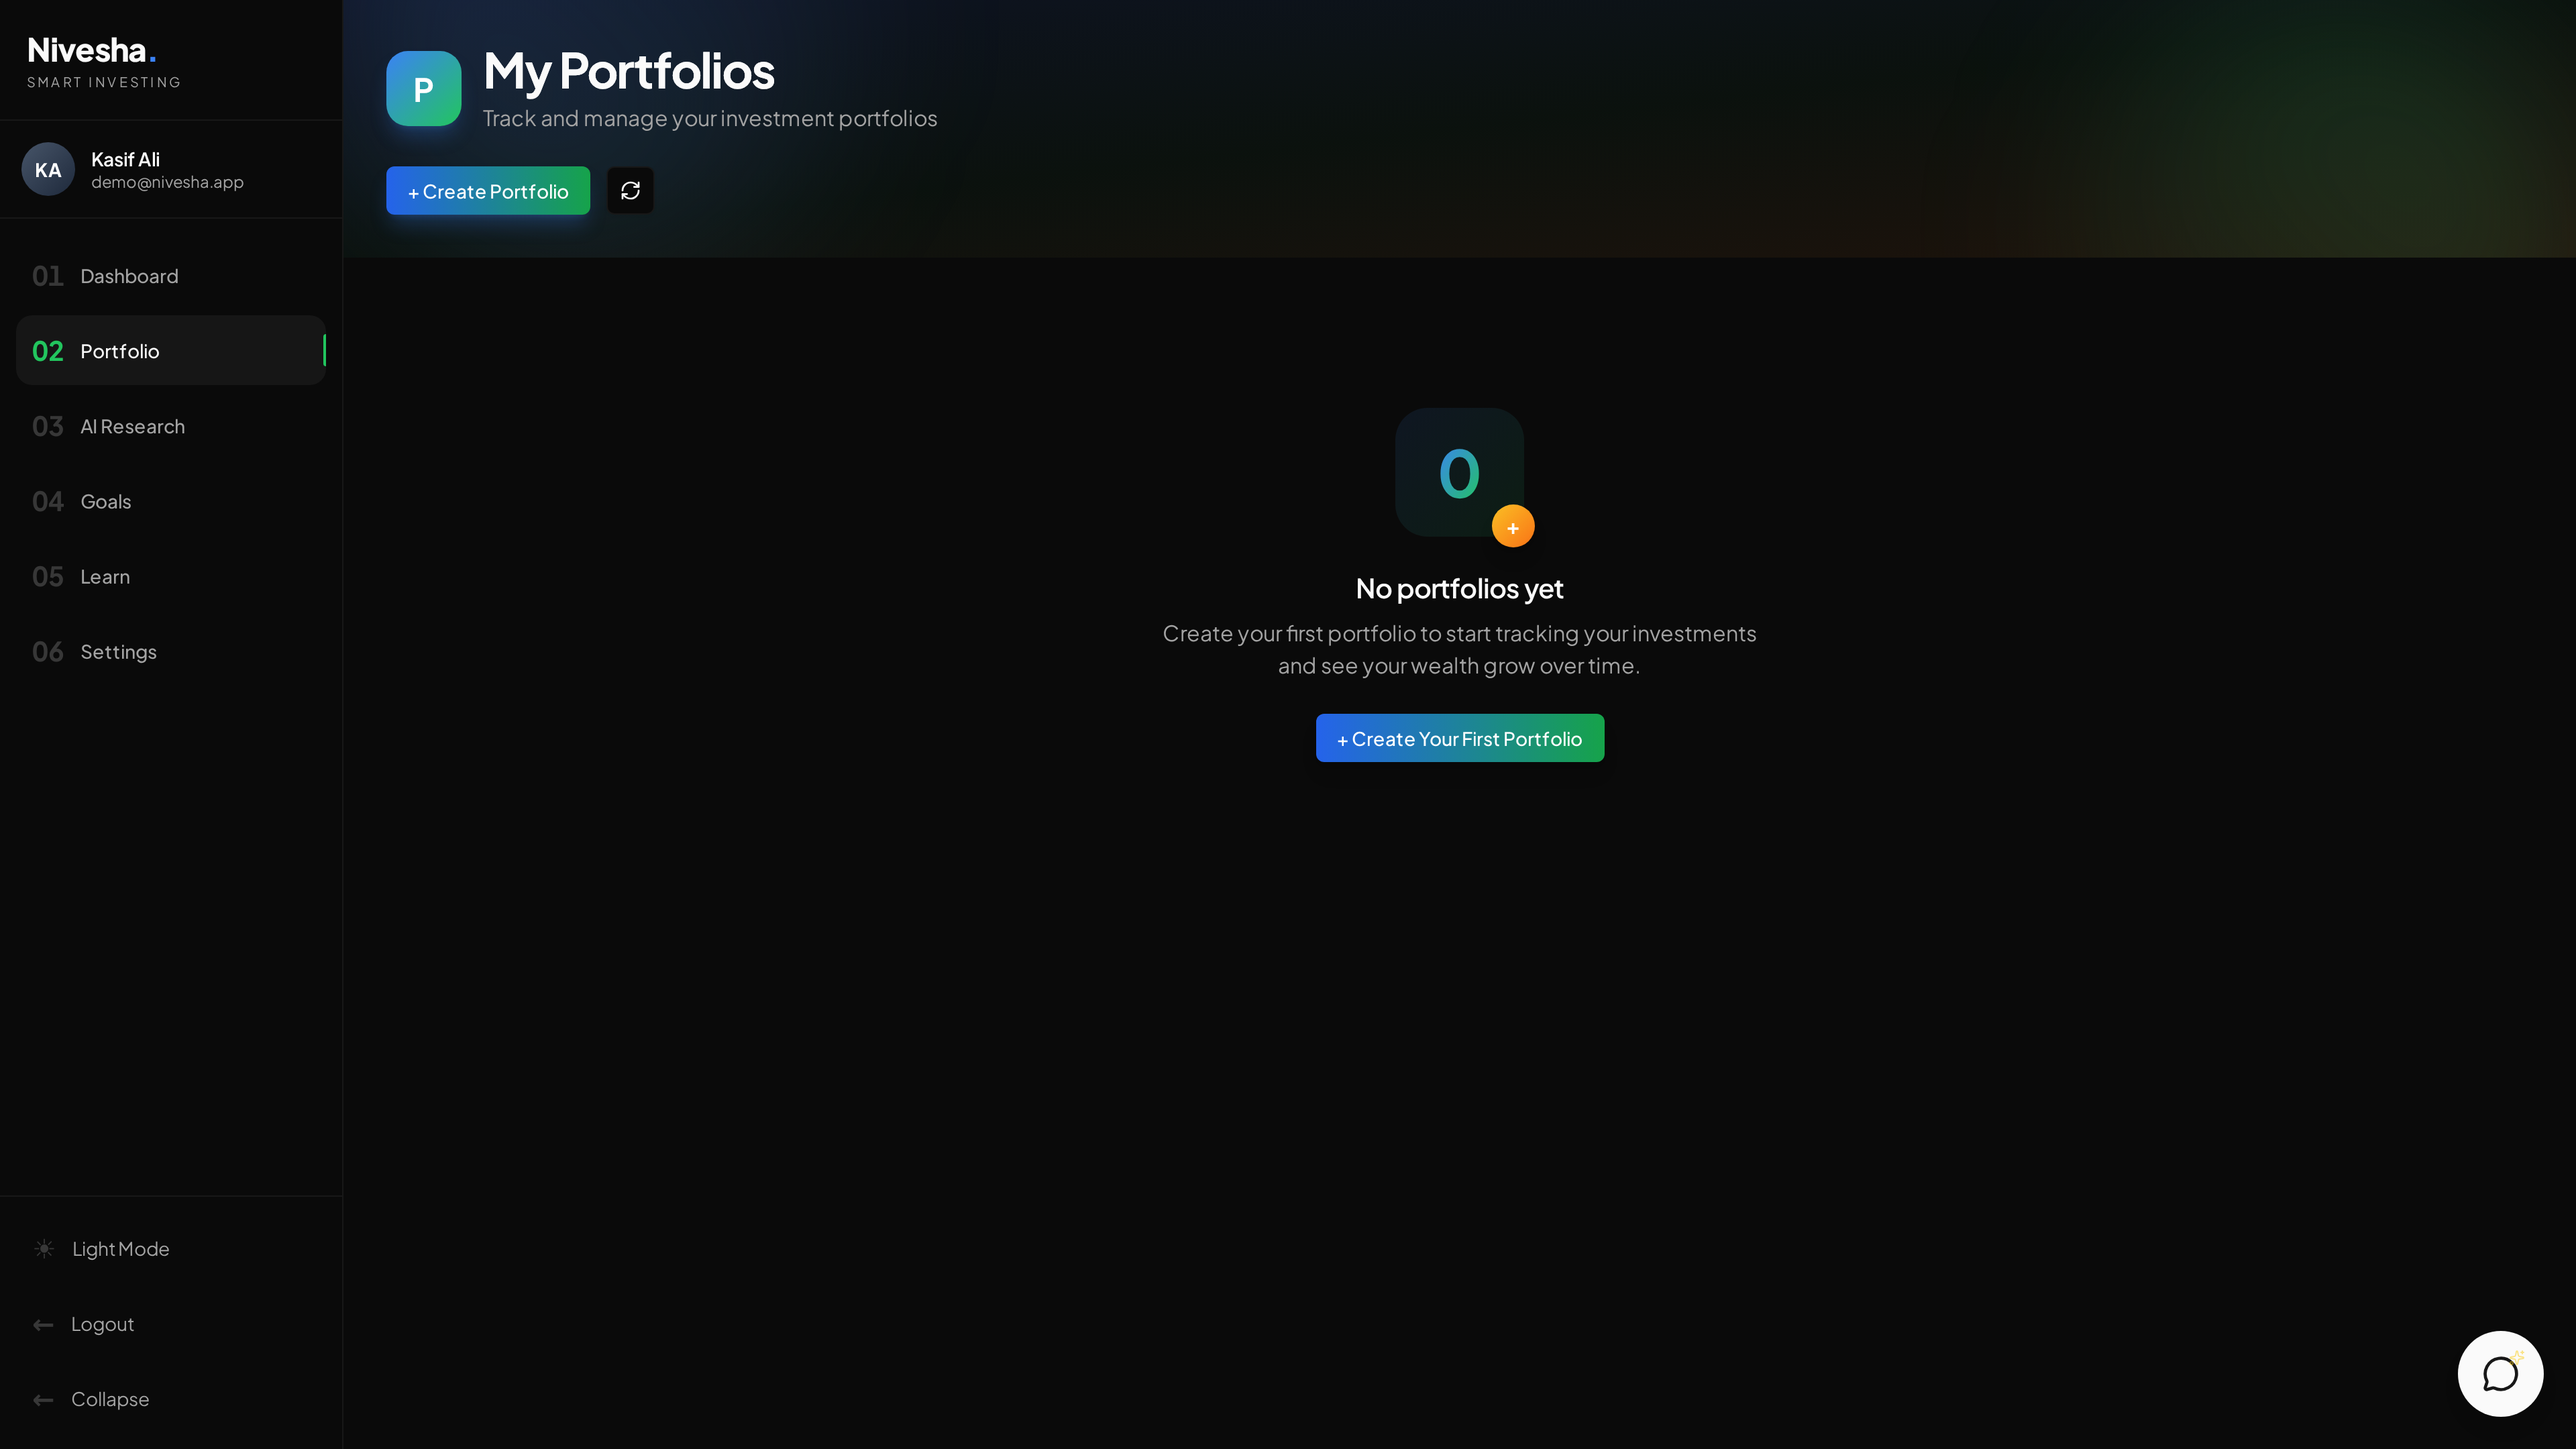
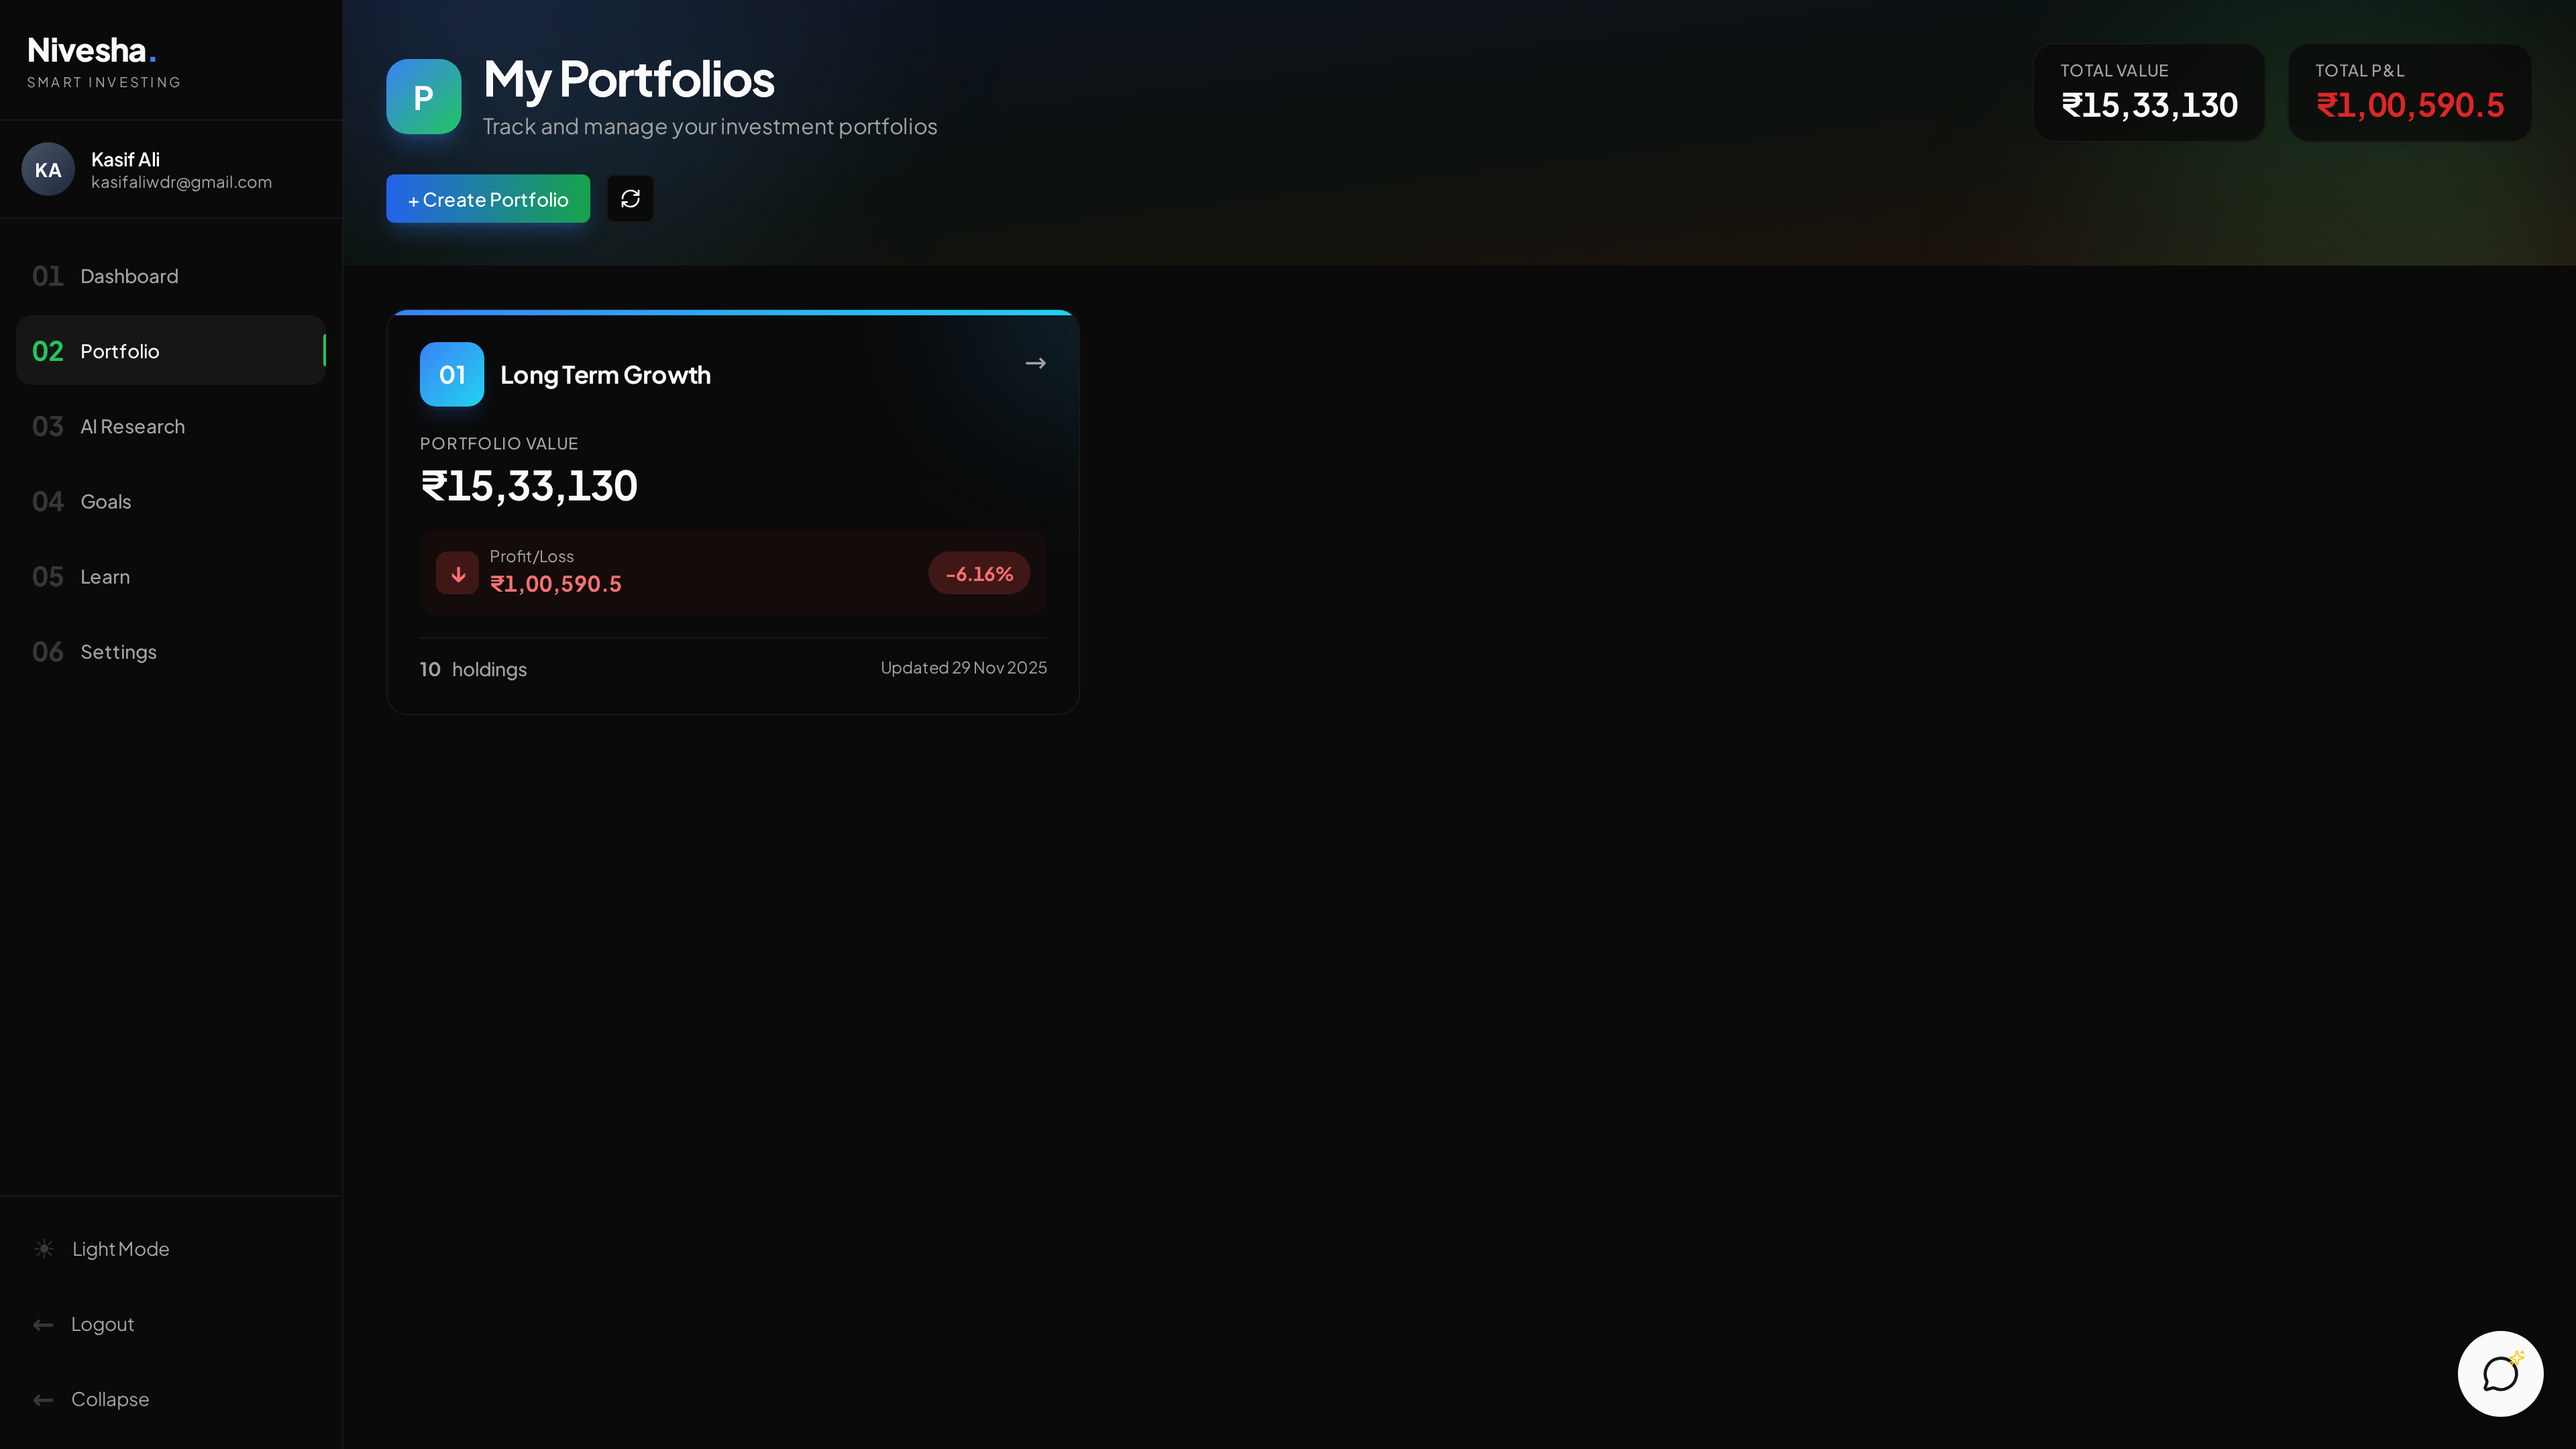
Replace Nivesha screenshots with real portfolio data (10 holdings, live P&L)

diff --git a/src/data/projectsData.ts b/src/data/projectsData.ts
@@ -2616,12 +2616,17 @@ export const projectsData: ProjectArticle[] = [
     screenshots: [
       {
         src: "/projects/nivesha/screenshot-1-dashboard.png",
-        caption: "Dashboard with live market indices (NIFTY 50, SENSEX, BANKNIFTY), quick actions for transactions, portfolio creation, and AI assistance",
-        alt: "Nivesha dashboard showing welcome screen with live market ticker, quick action cards",
+        caption: "Dashboard with live portfolio summary (₹15.3L value, P&L tracking), real-time market indices (NIFTY 50, SENSEX, BANKNIFTY, Gold, Crude), market news feed, and quick action cards for transactions, portfolio creation, and AI assistance",
+        alt: "Nivesha dashboard showing portfolio value, P&L, live market ticker, market news, and quick action cards",
+      },
+      {
+        src: "/projects/nivesha/screenshot-2-portfolio.png",
+        caption: "Portfolio overview showing 'Long Term Growth' portfolio with ₹15.3L value, 10 holdings, -6.16% P&L, total value and P&L summary in header",
+        alt: "Portfolio page showing Long Term Growth portfolio card with value, P&L, and holdings count",
       },
       {
         src: "/projects/nivesha/screenshot-3-research.png",
-        caption: "AI Research hub with stock search, live market overview indices, and trending stocks (Reliance, TCS, HDFC Bank, Infosys, ITC) with real-time prices",
+        caption: "AI Research hub with stock search, live market overview indices (NIFTY 50, SENSEX, NIFTY Bank, NIFTY IT), and trending stocks (Reliance, TCS, HDFC Bank, Infosys, ITC) with real-time prices",
         alt: "AI Research page showing stock search, market indices, and trending stock cards with prices",
       },
       {
@@ -2633,11 +2638,6 @@ export const projectsData: ProjectArticle[] = [
         src: "/projects/nivesha/screenshot-7-settings.png",
         caption: "Settings hub with profile management, broker integrations (Zerodha), tax reports, alerts, notifications, security, and preferences",
         alt: "Settings page showing profile information, integration options, and configuration sections",
-      },
-      {
-        src: "/projects/nivesha/screenshot-2-portfolio.png",
-        caption: "Portfolio management with create portfolio workflow and holdings tracking",
-        alt: "Portfolio page showing portfolio creation and management interface",
       },
     ],
 
@@ -2704,19 +2704,19 @@ export const projectsData: ProjectArticle[] = [
         {
           title: "AI Research Hub with Trending Cards",
           description: "The AI Research page uses a search-first layout with live market overview indices in metric cards, followed by trending stock cards showing company logos, current prices in INR, and percentage changes with color-coded sentiment badges.",
-          screenshotIndex: 1,
+          screenshotIndex: 2,
           highlight: "Trending stocks grid: Reliance ₹2,580.5 +0.99%, TCS ₹3,650.2 +1.25%, HDFCBANK ₹1,680.75 -0.45%"
         },
         {
           title: "Goal-Based Progress Visualization",
           description: "Financial goals use gradient progress bars with color-coded status badges (Behind in red, On Track in green). Each goal card shows saved amount vs target, remaining amount, time left, monthly SIP, linked stocks with color avatars, and a direct link to view details.",
-          screenshotIndex: 2,
+          screenshotIndex: 3,
           highlight: "House Down Payment: ₹8.50L of ₹20.00L, 42.5% progress, Behind badge, ₹35,000 monthly SIP"
         },
         {
           title: "Settings Information Architecture",
           description: "Settings uses a two-panel layout: left sidebar with icon-labeled sections (Profile, Integrations, Tax Reports, Alerts, Notifications, Security, Preferences) and right content area showing the selected section's details, optimizing for discoverability and scan-ability.",
-          screenshotIndex: 3,
+          screenshotIndex: 4,
           highlight: "Seven settings sections with icons, currently showing Profile with personal info and password management"
         },
         {
